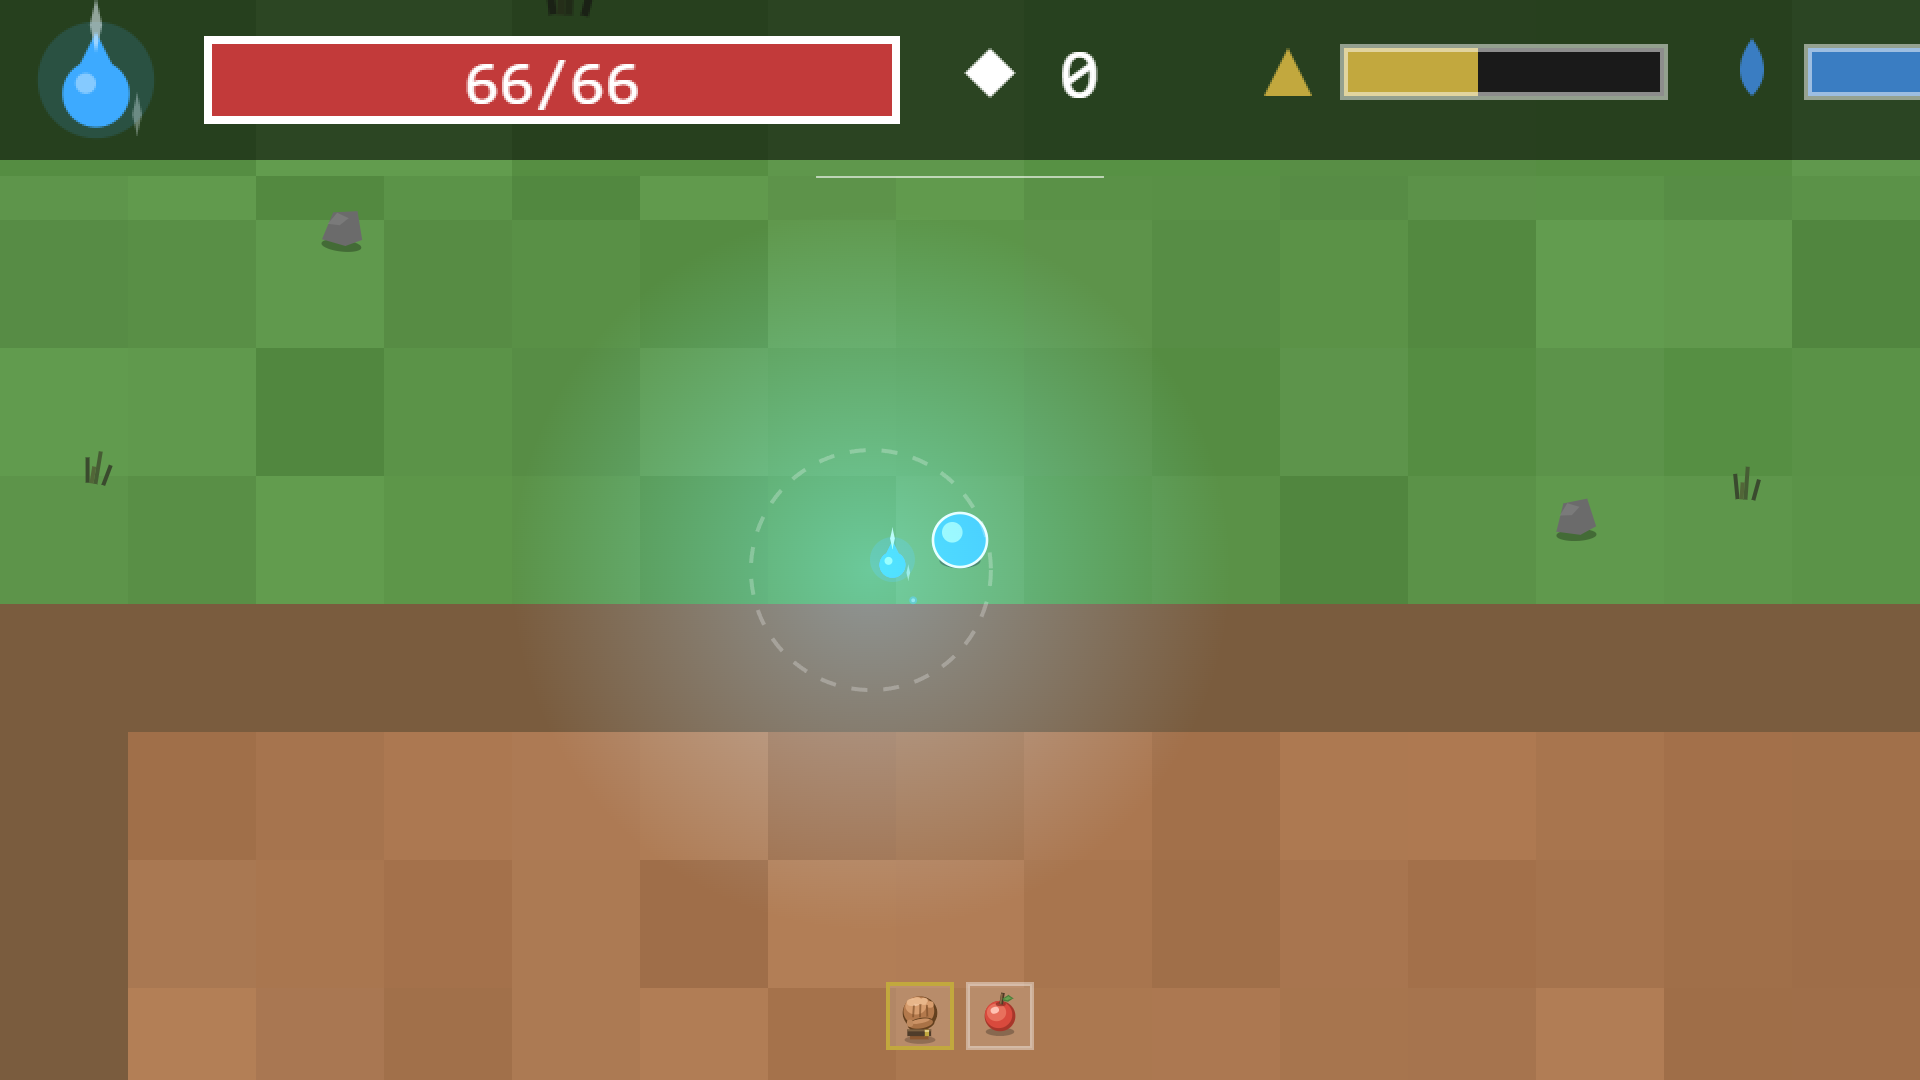
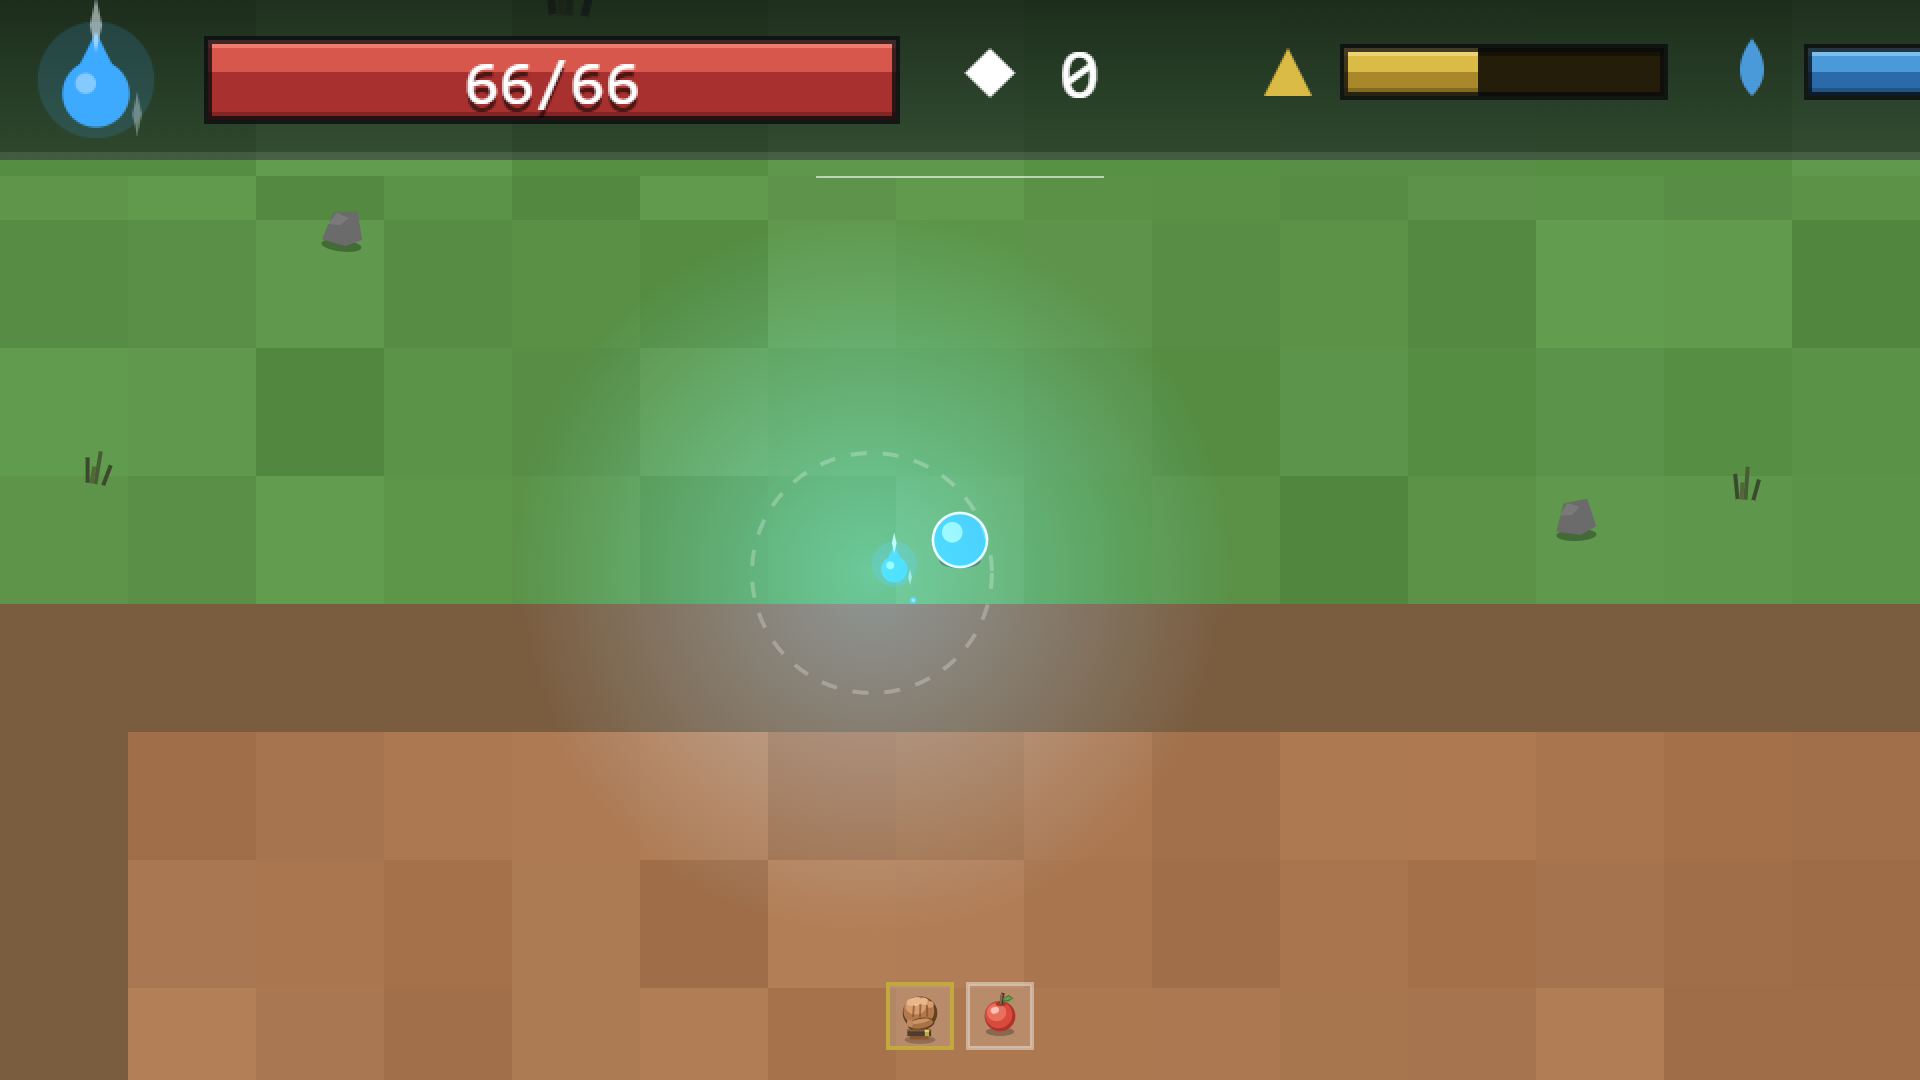
D-95 : une seule barre pour les PV, la faim et la soif, en quatre valeurs

diff --git a/src/ui/hud.js b/src/ui/hud.js
@@ -18,18 +18,43 @@ import { dessinerVisuel, TAILLE_REFERENCE_FOLLET_PX } from '../visuels.js';
 // plutôt qu'un dessin dédié (§3.3 : une seule fonction de rendu).
 const TAILLE_ICONE_FOLLET = 6;
 
-const COULEUR_PV_FOND = '#3a1414';
-const COULEUR_PV = '#c23a3a';
 const COULEUR_SLOT_ACTIF = '#c2a83e';
+
+// `D-95` — LA jauge du bandeau, en quatre valeurs, et une seule fonction pour
+// les trois (PV, faim, soif). Avant, les PV étaient dessinés inline et les
+// deux jauges de survie par une autre fonction : deux factures pour le même
+// objet, et la seule façon d'en changer une sans l'autre. Le reproche de Xav
+// (« par rapport aux feux follets, la barre de vie peut être améliorée »)
+// porte exactement là : un follet a un corps, un cœur clair et un halo, la
+// barre n'avait qu'un aplat et un contour blanc.
+//
+// Les quatre valeurs, et ce que chacune dit — c'est la charte d'item du 21/09
+// transposée à une barre :
+//   `creux`  le fond, plus sombre que le corps : la barre est CREUSÉE, et une
+//            jauge vide reste lisible sur le bandeau ;
+//   `corps`  le remplissage ;
+//   `haut`   la moitié haute du remplissage, éclairée — le volume vient d'une
+//            seconde forme, jamais d'un flou (règle de visuels.js) ;
+//   `lisere` un pixel vif au sommet, l'accent.
+// Le CONTOUR passe du blanc pur à un trait sombre : c'est le blanc qui
+// écrasait les trois valeurs qu'on vient de poser.
+const PALETTE_JAUGES = {
+  pv: { creux: '#2a0f10', corps: '#a8302f', haut: '#d8574c', lisere: '#ff9b8a' },
+  faim: { creux: '#241d0a', corps: '#a8882a', haut: '#d9bb45', lisere: '#ffe79b' },
+  soif: { creux: '#0e1b2a', corps: '#2a6aa8', haut: '#4a9ad9', lisere: '#a6dcff' },
+};
+const COULEUR_JAUGE_CONTOUR = 'rgba(8, 9, 12, 0.75)';
 const COULEUR_SLOT_GRISE = 'rgba(255,255,255,0.15)';
 
 // Jauges faim/soif (Palier C, specs/04_maison-interieur.md §3.3/hud_layout) :
 // icônes distinctes PAR FORME (P4② — jamais la couleur seule), un triangle
 // (faim, pain/blé stylisé) et une goutte (soif), jamais deux disques
 // identiques repeints d'une autre couleur.
-const COULEUR_JAUGE_FOND = '#1a1a1a';
-const COULEUR_FAIM = '#c2a83e';
-const COULEUR_SOIF = '#3a7dc2';
+// Les deux couleurs d'ICÔNE des jauges de survie restent distinctes de leur
+// palette de barre : une icône pleine se lit sur le bandeau sombre, un corps
+// de barre se lit dans son creux — ce ne sont pas les mêmes contrastes.
+const COULEUR_FAIM = '#d9bb45';
+const COULEUR_SOIF = '#4a9ad9';
 const JAUGE_LARGEUR = 40;
 const JAUGE_HAUTEUR = 6;
 const JAUGE_ICONE_TAILLE = 6;
@@ -165,18 +190,56 @@ function dessinerIconeSoif(ctx, x, y, taille) {
   ctx.fill();
 }
 
-// Une jauge = icône (forme) + barre de fond/remplissage — même patron que la
-// barre de PV (fond sombre, remplissage proportionnel, contour), réutilisé
-// pour faim ET soif plutôt que dupliqué.
-function dessinerJauge(ctx, x, y, ratio, couleur, dessinerIcone) {
+// `D-95` — LA barre du bandeau. Les PV, la faim et la soif la traversent
+// tous les trois : une seule facture, donc jamais deux jauges qui divergent
+// au premier réglage. Elle ne connaît ni PV ni faim — elle reçoit un
+// rectangle, un ratio et une palette.
+//
+// L'ordre de dessin EST le relief, exactement comme pour une silhouette de
+// `visuels.json` : creux, corps, moitié haute éclairée, liseré d'un pixel,
+// puis le contour sombre par-dessus tout. Le liseré ne dépasse jamais le
+// remplissage (il s'arrête où le corps s'arrête), sinon la barre vide
+// garderait un trait vif qui la ferait lire comme pleine.
+function dessinerBarre(ctx, rect, ratio, palette) {
+  const { x, y, largeur, hauteur } = rect;
+  const rempli = largeur * Math.max(0, Math.min(1, ratio));
+
+  ctx.fillStyle = palette.creux;
+  ctx.fillRect(x, y, largeur, hauteur);
+  // Le creux a sa propre ombre haute : un pixel plus sombre sous le bord
+  // supérieur, qui donne l'épaisseur de la gouttière même quand la jauge est
+  // à zéro.
+  ctx.fillStyle = 'rgba(0, 0, 0, 0.35)';
+  ctx.fillRect(x, y, largeur, 1);
+
+  if (rempli > 0) {
+    ctx.fillStyle = palette.corps;
+    ctx.fillRect(x, y, rempli, hauteur);
+    ctx.fillStyle = palette.haut;
+    ctx.fillRect(x, y, rempli, Math.max(1, Math.round(hauteur * 0.42)));
+    ctx.fillStyle = palette.lisere;
+    ctx.globalAlpha *= 0.55;
+    ctx.fillRect(x, y, rempli, 1);
+    ctx.globalAlpha /= 0.55;
+    // Le pied du remplissage retombe dans l'ombre : sans lui, la moitié haute
+    // éclairée se lit comme deux bandes collées, pas comme un volume.
+    ctx.fillStyle = 'rgba(0, 0, 0, 0.22)';
+    ctx.fillRect(x, y + hauteur - 1, rempli, 1);
+  }
+
+  ctx.strokeStyle = COULEUR_JAUGE_CONTOUR;
+  ctx.strokeRect(x, y, largeur, hauteur);
+}
+
+// Une jauge de survie = icône (forme) + la barre ci-dessus.
+function dessinerJauge(ctx, x, y, ratio, palette, dessinerIcone) {
   dessinerIcone(ctx, x + JAUGE_ICONE_TAILLE / 2, y + JAUGE_HAUTEUR / 2, JAUGE_ICONE_TAILLE);
-  const barreX = x + JAUGE_ICONE_TAILLE + 4;
-  ctx.fillStyle = COULEUR_JAUGE_FOND;
-  ctx.fillRect(barreX, y, JAUGE_LARGEUR, JAUGE_HAUTEUR);
-  ctx.fillStyle = couleur;
-  ctx.fillRect(barreX, y, JAUGE_LARGEUR * Math.max(0, Math.min(1, ratio)), JAUGE_HAUTEUR);
-  ctx.strokeStyle = 'rgba(255,255,255,0.5)';
-  ctx.strokeRect(barreX, y, JAUGE_LARGEUR, JAUGE_HAUTEUR);
+  dessinerBarre(
+    ctx,
+    { x: x + JAUGE_ICONE_TAILLE + 4, y, largeur: JAUGE_LARGEUR, hauteur: JAUGE_HAUTEUR },
+    ratio,
+    palette,
+  );
 }
 
 export function dessinerHud(ctx, {
@@ -205,8 +268,18 @@ export function dessinerHud(ctx, {
   // place des deux cartouches de la colonne de gauche. Depuis `D-17` (le
   // bouton MENU tactile est descendu sous le bandeau), le CONTENU va lui
   // aussi jusqu'au bord : `Nv. N` y est ancré, à une seule position.
-  ctx.fillStyle = 'rgba(0,0,0,0.55)';
+  // `D-95` : le bandeau lui-même n'est plus un aplat. Un dégradé vertical très
+  // court (il s'éclaircit à peine vers le bas) et une arête claire d'un pixel
+  // en pied : c'est ce qui le détache du monde au lieu de le poser dessus, et
+  // c'est la même idée que le creux d'une jauge — l'ordre de dessin fait le
+  // relief, jamais un flou.
+  const fondBandeau = ctx.createLinearGradient(0, BANDEAU_HAUT.y, 0, BANDEAU_HAUT.y + BANDEAU_HAUT.hauteur);
+  fondBandeau.addColorStop(0, 'rgba(6, 8, 12, 0.72)');
+  fondBandeau.addColorStop(1, 'rgba(18, 22, 30, 0.58)');
+  ctx.fillStyle = fondBandeau;
   ctx.fillRect(BANDEAU_HAUT.x, BANDEAU_HAUT.y, BANDEAU_HAUT.largeur, BANDEAU_HAUT.hauteur);
+  ctx.fillStyle = 'rgba(255, 255, 255, 0.10)';
+  ctx.fillRect(BANDEAU_HAUT.x, BANDEAU_HAUT.y + BANDEAU_HAUT.hauteur - 1, BANDEAU_HAUT.largeur, 1);
 
   // `survie`/`niveau` restent optionnels : avant le premier calcul des stats
   // (cinématique d'ouverture), il n'y a rien à afficher — la ligne se
@@ -231,20 +304,22 @@ export function dessinerHud(ctx, {
     );
   }
 
-  // PV : barre + valeur centrée DEDANS (patron V1 conservé, jamais à côté).
+  // PV : la MÊME barre que la faim et la soif, plus la valeur centrée DEDANS
+  // (patron V1 conservé, jamais à côté).
   const b = zones.pv;
-  ctx.fillStyle = COULEUR_PV_FOND;
-  ctx.fillRect(b.x, b.y, b.largeur, b.hauteur);
   const ratio = pvMax > 0 ? Math.max(0, Math.min(1, pv / pvMax)) : 0;
-  ctx.fillStyle = COULEUR_PV;
-  ctx.fillRect(b.x, b.y, b.largeur * ratio, b.hauteur);
-  ctx.strokeStyle = '#fff';
-  ctx.strokeRect(b.x, b.y, b.largeur, b.hauteur);
+  dessinerBarre(ctx, b, ratio, PALETTE_JAUGES.pv);
   ctx.font = '8px monospace';
-  ctx.fillStyle = '#fff';
   ctx.textAlign = 'center';
   ctx.textBaseline = 'middle';
-  ctx.fillText(`${Math.ceil(pv)}/${Math.ceil(pvMax)}`, b.x + b.largeur / 2, b.y + b.hauteur / 2 + 1);
+  // Le nombre passe tantôt sur le rouge, tantôt sur le creux : une ombre
+  // portée d'un pixel le tient lisible des deux côtés, là où le blanc seul
+  // se perdait sur le liseré clair.
+  const texte = `${Math.ceil(pv)}/${Math.ceil(pvMax)}`;
+  ctx.fillStyle = 'rgba(0, 0, 0, 0.55)';
+  ctx.fillText(texte, b.x + b.largeur / 2, b.y + b.hauteur / 2 + 2);
+  ctx.fillStyle = '#fff';
+  ctx.fillText(texte, b.x + b.largeur / 2, b.y + b.hauteur / 2 + 1);
 
   // Éclats : le losange porte le sens, pas la couleur (P4②).
   ctx.textAlign = 'left';
@@ -257,8 +332,8 @@ export function dessinerHud(ctx, {
     // Cause racine (SD_phase3-stations-pv-jauges_2026-09-17.md, sujet 3) :
     // `save.survie` porte les clés de survival.json (`jauge_faim`/
     // `jauge_soif`, cf. save.js/survival.js), jamais `faim`/`soif`.
-    dessinerJauge(ctx, zones.faim.x, zones.faim.y, survie.jauge_faim, COULEUR_FAIM, dessinerIconeFaim);
-    dessinerJauge(ctx, zones.soif.x, zones.soif.y, survie.jauge_soif, COULEUR_SOIF, dessinerIconeSoif);
+    dessinerJauge(ctx, zones.faim.x, zones.faim.y, survie.jauge_faim, PALETTE_JAUGES.faim, dessinerIconeFaim);
+    dessinerJauge(ctx, zones.soif.x, zones.soif.y, survie.jauge_soif, PALETTE_JAUGES.soif, dessinerIconeSoif);
   }
 
   if (zones.niveau) {

diff --git a/tests/test_phase1_sd_dialogues_invisibles_2026-09-15.js b/tests/test_phase1_sd_dialogues_invisibles_2026-09-15.js
@@ -100,6 +100,13 @@ class FauxCtx2D {
   createRadialGradient() {
     return { addColorStop() {} };
   }
+
+  // Le fond du bandeau HUD est un dégradé vertical depuis `D-95` : un
+  // enregistreur qui ne le connaît pas ferait échouer ce test pour une raison
+  // qui n'a rien à voir avec les transforms qu'il surveille.
+  createLinearGradient() {
+    return { addColorStop() {} };
+  }
 }
 
 function creerFauxCanvas(largeur, hauteur) {

diff --git a/docs/DOC_suivi-dettes.md b/docs/DOC_suivi-dettes.md
@@ -188,6 +188,7 @@ Priorité : `P1` avant 07 · `P2` dans un lot léger · `P3` quand le système c
 | D-92 | **Un id d'arme absent du catalogue n'est rattrapé nulle part** — relevé en écrivant le scénario de capture des items (21/09), **mesuré sous Chrome le même jour**, signalé sans corriger. Il n'existe **aucune arme inconnue dans le jeu aujourd'hui** : `weapons.json` en contient deux, `weapon_mains_nues` et `weapon_epee_bois`, et aucun chemin de jeu n'écrit autre chose. C'est une **classe de panne**, pas un bug observable en jouant | « Inconnue » veut dire : la chaîne que porte `save.hero.equipement.arme` ne correspond à aucun `id` de `weapons.json`. Trois façons d'y arriver — (a) une arme **renommée ou retirée** du catalogue alors qu'une sauvegarde la porte encore, exactement la classe que la règle de méthode nomme (« un renommage/retrait de contenu de catalogue n'est jamais couvert par la migration de *schéma* ») ; (b) l'id du **mauvais catalogue**, qui ne diffère que par son préfixe — c'est ce qui est arrivé, le scénario avait écrit `item_epee_bois` (objet de poche) là où va `weapon_epee_bois` (arme) ; (c) une sauvegarde **importée ou éditée à la main** (le menu expose export et import). **Ce qui se passe alors, mesuré, pas lu** : `combat.js#resoudreArmeEquipee` rend `undefined` sans lever · au repos, **rien** — la case d'attaque de la barre du bas est simplement **vide**, ce qui est indistinguable du cas normal « cette arme n'a pas d'icône » · les `modificateurs` de l'arme sont **perdus en silence** (garde `arme && arme.modificateurs`) · et **au premier ATTACK** : `TypeError: Cannot read properties of undefined (reading 'portee')` à `main.js:1819`, où `arme.portee` est lu **sans garde**. Depuis `D-71` la boucle survit, donc le jeu ne fige pas — mais chaque appui perd sa frame et **le héros ne peut plus jamais frapper**. Second site non gardé : `main.js:2423` (l'anneau d'attaque). **Le filet de sécurité a un trou exactement là où un renommage atterrit** : `equipment_slots.defaut` (`weapon_mains_nues`) ne rattrape que `arme: null`, jamais `arme: "une chaîne fausse"`. **Le même défaut existe au slot consommable** : `main.js:1595` lit `itemDef.consommation` sans garde, et après un renommage la poche porte le même id périmé que le slot, donc le garde de stock ne protège pas. Remèdes possibles, **à trancher par Xav** : replier sur le défaut du slot en journalisant (on joue, on perd son épée sans un mot), ou refuser la sauvegarde au chargement (échec dur, comme une référence cassée au boot). Dans les deux cas, indépendamment : `arme.portee` ne devrait jamais être lu sans garde. **Ne pas corriger en passant** — le repli choisi est une décision de jeu | P2 | ouvert |
 | D-93 | **Le fruit reste dans la case du bas quand la poche est vide** (Xav, 21/09, en jeu). On voit un fruit qu'on n'a plus, et rien ne dit qu'appuyer ne fera rien | Attention à ne pas confondre deux choses : **la CASE qui reste est voulue** — c'est un loquet assumé (`flag_premier_consommable`, `main.js#verifierDeblocagesBarreAction`), « manger son dernier fruit ne doit pas faire disparaître la touche qu'on vient d'apprendre ». Ce qui est un défaut, c'est l'**ICÔNE dedans** : `main.js#iconesSlots.consume` résout la silhouette depuis `save.hero.equipement.consommable` **sans jamais regarder le stock**, alors que les deux autres chemins du même consommable le regardent, eux (`essayerConsommer` ligne ~1594, et l'indice de commande ligne ~1904). Trois chemins, deux vérités : c'est la divergence qui est la cause, pas l'oubli. Et le slot n'est jamais vidé quand la poche tombe à zéro, donc l'id survit à l'objet. **Même famille que `D-92`** : un slot garde un id que plus rien ne revalide — là l'id ne résout plus, ici il résout mais l'objet n'est plus en poche. À traiter **ensemble**, dans un ticket qui prend le sujet en entier (décision de Xav, 21/09) : ce que vaut un slot d'équipement dont le contenu a disparu, et qui le revalide. Question de jeu à trancher dans ce ticket : case **vide**, ou icône **grisée** (le joueur sait alors quoi aller chercher) ? | P2 | ouvert |
 | D-94 | **Les mains nues se lisaient comme une moufle, et en aplat doré** (Xav, 22/09 : « le pouce n'est pas dans le bon sens », et « ça dénote avec le standing de la pomme, c'est un peu simpliste »). Premier ticket de la passe de polish de l'interface | Deux causes, et la seconde commandait la première. **La silhouette** : un rectangle de paume, un rectangle de doigts, une ellipse de pouce posée à gauche à −38° — de face, doigts en l'air, pouce sur le côté : la lecture était une moufle, pas une main. **La teinte** : `visuel_icone_main` était le seul visuel de la barre du bas déclaré `teintable`, et `ui/hud.js#dessinerIconeSlot` lui appliquait `COULEUR_SLOT_ACTIF` à *toutes* ses primitives — donc **une seule valeur par construction**, quoi qu'on dessine. L'épée de bois (`D-75`) et le fruit équipé étaient déjà arrivés non teintables, à leurs vraies couleurs : la main était l'exception qui restait. Remède : un **poing de trois quarts**, jointures vers l'œil, pouce replié en travers, bracelet de cuir à boucle dorée pour l'accent — charte d'item du 21/09 (objet posé, trois valeurs, un accent) ; et la case **n'impose plus sa couleur** à ce qu'elle contient, son repère d'or passant dans le **contour**. Le test de `D-20 B` n'épingle plus « l'icône est teintable » mais le contrat qui compte : **aucune icône d'arme n'est teintable**, donc jamais deux standings dans la même barre | P2 | **close le 22/09** — livrée ; vérifiée au banc et en jeu sous Chrome, verdict de Xav dû (`V-53`) |
+| D-95 | **Le bandeau était en aplats : une barre de vie plate à contour blanc, et deux jauges de survie d'une autre facture** (Xav, 22/09 : « par rapport aux feux follets, la barre de vie peut être améliorée » ; « les éclats et les états de survie sont simplistes »). Deuxième ticket de la passe d'interface | Deux causes, l'une dans l'autre. **Deux factures pour le même objet** : les PV étaient dessinés *inline* dans `dessinerHud` (fond, remplissage, `strokeRect` blanc), la faim et la soif par une autre fonction — donc aucun moyen d'en régler une sans laisser l'autre derrière. **Et une seule valeur par barre** : un aplat, un contour blanc pur, rien qui dise le creux ni le volume, là où un follet a un corps, un cœur clair et un halo. Remède : **une seule fonction** (`dessinerBarre`) que les trois traversent, et quatre valeurs par barre, qui sont la charte d'item transposée — `creux` (la gouttière, lisible même à zéro), `corps`, `haut` (la moitié haute éclairée : le volume vient d'une seconde forme, jamais d'un flou), `lisere` (un pixel vif, l'accent). Le contour passe au trait **sombre** : c'est le blanc qui écrasait les trois valeurs. Le liseré s'arrête où le remplissage s'arrête, sinon une barre vide garderait un trait vif qui la ferait lire pleine. Le fond du bandeau lui-même passe de l'aplat à un dégradé très court avec une arête claire en pied. Le nombre des PV gagne une ombre portée d'un pixel : il passe tantôt sur le rouge, tantôt sur le creux | P2 | **close le 22/09** — livrée ; vérifiée en jeu sous Chrome, verdict de Xav dû (`V-53`) |
 
 ## 6. Performance — registre des relevés
 

diff --git a/docs/JOURNAL_2026-09-22_polish-interface.md b/docs/JOURNAL_2026-09-22_polish-interface.md
@@ -38,3 +38,4 @@ se lisent comme une **moufle gauche**.
 | # | Ticket | Ce qui change | Commit |
 |---|---|---|---|
 | 1 | `D-94` | **Les mains nues.** Un **poing de trois quarts** (jointures vers l'œil, pouce replié en travers, bracelet de cuir à boucle d'or) remplace la moufle de face, à la charte d'item du 21/09 : posé (ombre portée), trois valeurs au moins, **un** accent. Et la cause de fond : la case **n'impose plus sa couleur** à ce qu'elle contient — la main était le dernier visuel `teintable` de la barre, donc plat par construction, quand l'épée et le fruit y étaient déjà à leurs vraies couleurs. Le repère d'or passe dans le **contour** de la case. Test de `D-20 B` repris : il n'épingle plus « teintable » mais « **aucune** icône d'arme n'est teintable ». Deux itérations au banc (la première trop large et le pouce noyé dans la masse) | à venir |
+| 2 | `D-95` | **Le relief du bandeau.** Une **seule** fonction de barre (`dessinerBarre`) pour les PV, la faim et la soif — ils avaient deux factures, dont une écrite *inline* dans `dessinerHud` — et **quatre valeurs** par barre : creux, corps, moitié haute éclairée, liseré d'un pixel. Contour sombre au lieu du blanc pur (c'est lui qui écrasait tout), fond du bandeau en dégradé très court avec une arête claire en pied, ombre d'un pixel sous le nombre des PV. Le faux `ctx` de `test_phase1_sd_dialogues_invisibles` apprend `createLinearGradient` — sans quoi il échouait pour une raison étrangère aux transforms qu'il surveille | à venir |
